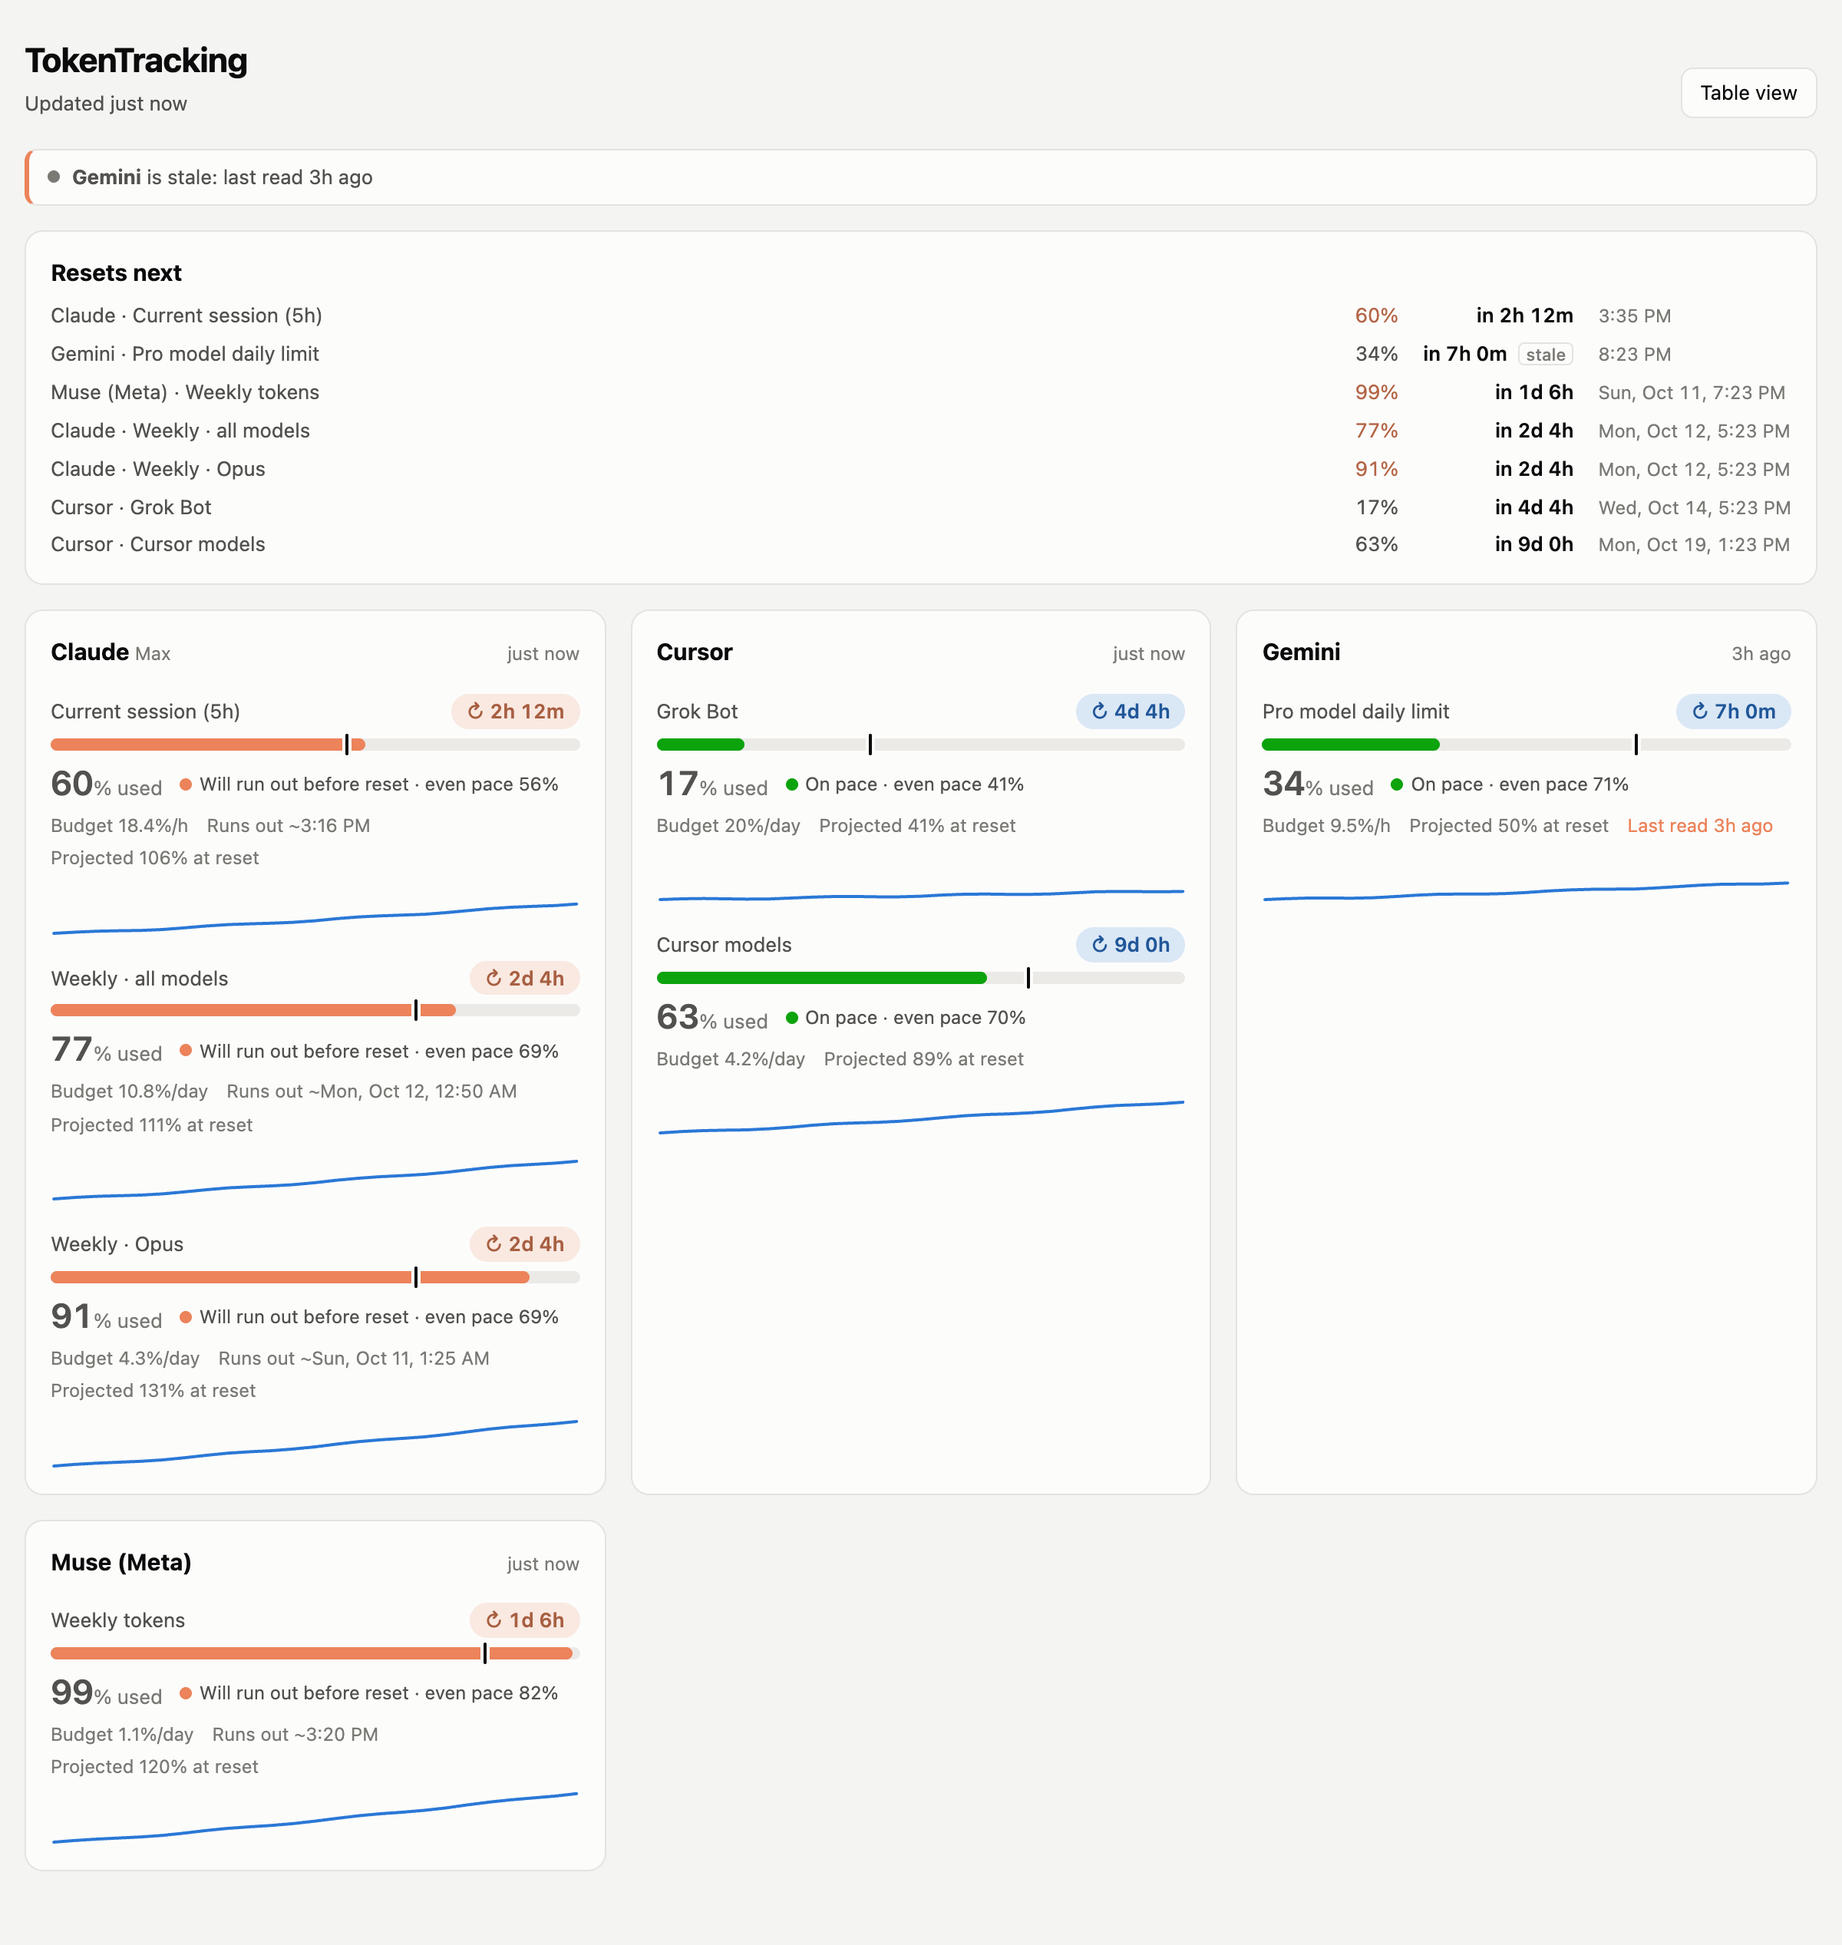
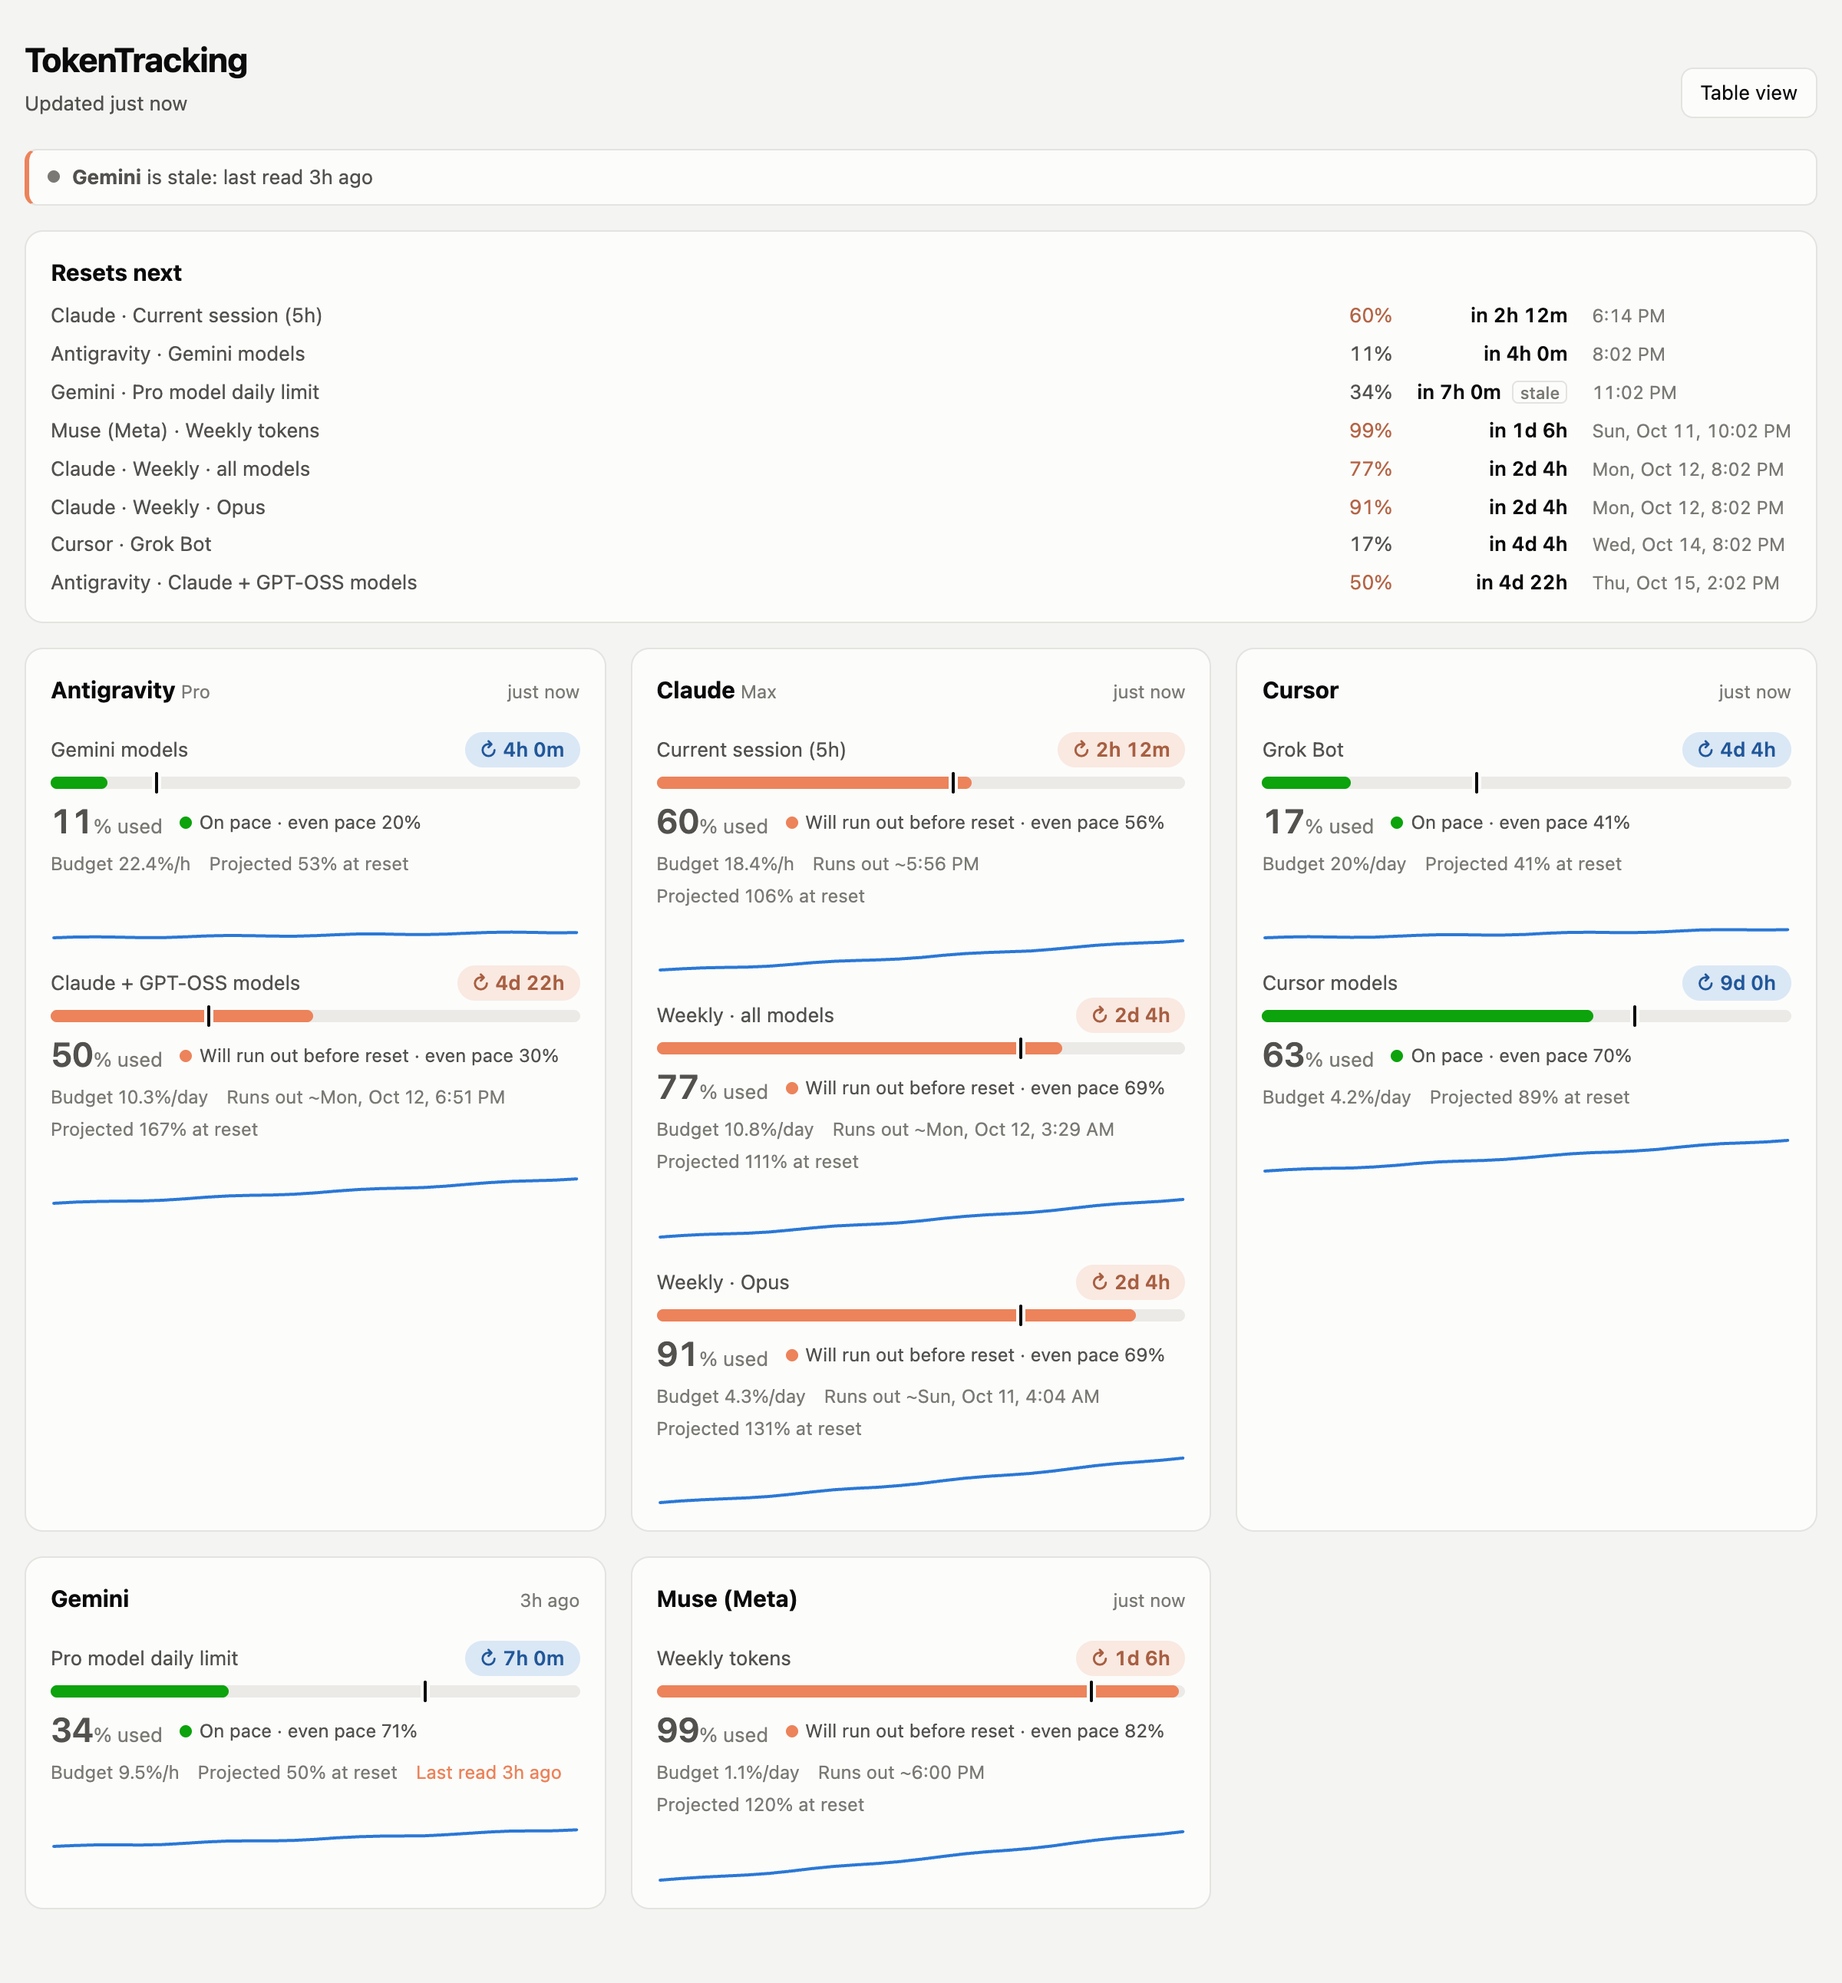
Menu bar: Antigravity replaces Gemini; refresh screenshots; backlog of more AI services

diff --git a/menubar/TokenTrackingMenu.swift b/menubar/TokenTrackingMenu.swift
@@ -167,12 +167,12 @@ struct MenuSlot: Equatable {
 
 enum MenuBarGlyphs {
     /// Services shown in the menu bar, in order. Grok Bot is a separate limit inside Cursor.
+    /// Gemini is deliberately left out (its app limits stay near 0% for this user); it's still on the dashboard.
     static let services: [(id: String, symbol: String, name: String, matches: (String, String) -> Bool)] = [
         ("claude", "asterisk", "Claude", { p, _ in p == "claude" }),
         ("cursor", "cursorarrow", "Cursor", { p, m in p == "cursor" && m != "grok-bot" }),
         ("grok-bot", "xmark", "Grok Bot", { p, m in p == "cursor" && m == "grok-bot" }),
         ("muse", "m.circle", "Muse", { p, _ in p == "muse" }),
-        ("gemini", "sparkle", "Gemini", { p, _ in p == "gemini" }),
         ("antigravity", "arrow.up.circle", "Antigravity", { p, _ in p == "antigravity" }),
     ]
 

diff --git a/scripts/seed-demo.js b/scripts/seed-demo.js
@@ -19,6 +19,8 @@ const meters = [
   { provider: 'gemini', id: 'daily', label: 'Pro model daily limit', window: 'daily', resetIn: 7 * H, end: 35, staleBy: 3 * H }, // shows the stale notice
   { provider: 'cursor', id: 'grok-bot', label: 'Grok Bot', window: 'weekly', resetIn: 100 * H, end: 18 },
   { provider: 'muse', id: 'weekly-tokens', label: 'Weekly tokens', window: 'weekly', resetIn: 30 * H, end: 100 },
+  { provider: 'antigravity', id: 'pool-claude-gpt-oss', label: 'Claude + GPT-OSS models', window: 'weekly', resetIn: 118 * H, end: 51, plan: 'Pro' },
+  { provider: 'antigravity', id: 'pool-gemini', label: 'Gemini models', window: 'session', resetIn: 4 * H, end: 12 },
 ];
 const WIN_H = { session: 5, daily: 24, weekly: 168, monthly: 730 };
 

diff --git a/scripts/screenshots.js b/scripts/screenshots.js
@@ -58,7 +58,7 @@ try {
   const swiftFile = join(home, 'glyphs.swift');
   writeFileSync(swiftFile, `import AppKit
 ${glyphs}
-let slots = [("asterisk", 77.0), ("cursorarrow", 64), ("xmark", 18), ("m.circle", 100), ("sparkle", 34)]
+let slots = [("asterisk", 77.0), ("cursorarrow", 64), ("xmark", 18), ("m.circle", 100), ("arrow.up.circle", 51)]
   .map { MenuSlot(symbol: $0.0, text: MenuBarGlyphs.digits($0.1)) }
 let glyph = MenuBarGlyphs.image(for: slots)
 let s: CGFloat = 2, pad: CGFloat = 14, band: CGFloat = 26

diff --git a/README.md b/README.md
@@ -38,7 +38,7 @@ No API keys, no accounts, no cloud, no browser extension.
 - **Status at a glance.** Shown as a colored dot plus a label: On pace, Ahead of pace, Will run out before reset, Limit reached.
 - **History.** A sparkline per meter, with hover readouts, from every snapshot stored locally in SQLite.
 - **Menu bar app:**
-  - **Title:** one icon and % per service, e.g. `✳74 ➚70 ✕86 Ⓜ97 ✦0`. Each number is that service's worst meter, `––` means at the limit, and hovering shows details.
+  - **Title:** one icon and % per service, e.g. `✳74 ➚70 ✕86 Ⓜ97 ⇧51`. Each number is that service's worst meter, `––` means at the limit, and hovering shows details.
   - **Click it** for a compact dashboard with Refresh now / Open dashboard / Quit.
   - **Lifecycle:** it starts and stops everything it needs.
 - **Also:** the full dashboard at http://127.0.0.1:7878 (card and table views, light and dark) and `npm run status` in the terminal.
@@ -72,7 +72,7 @@ Requirements: macOS 13+, Node.js ≥ 22.13 (for the built-in `node:sqlite`), Goo
 ### The menu bar app
 
 - **What it shows:** one icon per service, each with a digit for that service's worst meter:
-  - **Icons:** ✳ Claude, ➚ Cursor, ✕ Grok Bot, Ⓜ Muse, ✦ Gemini, ⇧ Antigravity.
+  - **Icons:** ✳ Claude, ➚ Cursor, ✕ Grok Bot, Ⓜ Muse, ⇧ Antigravity. Gemini is only on the dashboard (its limits rarely matter); change `MenuBarGlyphs.services` to pick your own.
   - **The number** is the % used (0–99), `––` = at the limit, `??` = no reading yet.
   - **Hover** for exact numbers and the most at-risk meter. Click for the compact dashboard.
 - **It's the only thing you run.** Opening it starts the local service in the background (and restarts it if it dies). Quitting it stops the service, and the service also exits by itself if the app is force-killed. Service logs go to `~/.tokentracking/service.log`.

diff --git a/docs/ROADMAP.md b/docs/ROADMAP.md
@@ -10,6 +10,16 @@ Ordered by priority. Move items to CHANGELOG.md when they ship.
 - [ ] Menu bar: choose which meter drives the title, or pin one.
 - [ ] Optional: port the service to Swift inside the app (no Node at all): SQLite via libsqlite3, CDP over a pipe, the panel rendered natively.
 
+## More AI services (backlog)
+Candidates, to be checked for a usage page or local source first. Same rules as the others: read in-page with the headless profile, no API keys.
+- [ ] **OpenAI: ChatGPT** (Plus/Pro message and model limits) and **Codex** (5h + weekly limits; the Codex CLI also logs usage locally). Check chatgpt.com settings for a usage view.
+- [ ] **GitHub Copilot**: premium-request allowance per month (github.com billing/usage pages).
+- [ ] **Perplexity**: Pro search / research limits.
+- [ ] **Windsurf** and **Kiro**: credit-based plans with dashboards.
+- [ ] **Mistral Le Chat**, **DeepSeek**: message limits if exposed.
+- [ ] **Midjourney** (fast GPU hours), **ElevenLabs** (characters per month): non-LLM, but the same "pace a monthly quota" problem.
+- [ ] Menu bar: let the user choose which services get a slot (today it's the `MenuBarGlyphs.services` list in the Swift app).
+
 ## Done
 - [x] Headless refresh verified for Claude, Cursor + Grok Bot, Gemini, Muse (2026-10-10)
 - [x] macOS menu bar app that starts and stops the service; Dock fallback when the menu bar is full (2026-10-10)

diff --git a/CHANGELOG.md b/CHANGELOG.md
@@ -4,7 +4,7 @@ All notable changes to this project are recorded here. Format: [Keep a Changelog
 
 ## [Unreleased]
 ### Added
-- **Antigravity** (ADR-011): quota pools read from the desktop app's local language server (`GetUserStatus` on 127.0.0.1) while Antigravity is running. Models are grouped into pools (e.g. "Claude + GPT-OSS models", weekly; "Gemini models", ~5h). It's the first step of every refresh and needs no Chrome. In the menu bar it shows as ⇧.
+- **Antigravity** (ADR-011): quota pools read from the desktop app's local language server (`GetUserStatus` on 127.0.0.1) while Antigravity is running. Models are grouped into pools (e.g. "Claude + GPT-OSS models", weekly; "Gemini models", ~5h). It's the first step of every refresh and needs no Chrome. In the menu bar it shows as ⇧, **replacing Gemini**, which stays on the dashboard.
 - **App icon** ("reset ring": a usage ring with clock hands). Source is `assets/icon.svg`; `npm run build:icon` renders every macOS size with headless Chrome and packs `menubar/AppIcon.icns` with `iconutil`, and `build:menubar` bundles it.
 - MIT license.
 - README screenshots (`docs/images/`), generated from demo data by `npm run screenshots` (dashboard light/dark, menu bar panel, menu bar glyphs).
